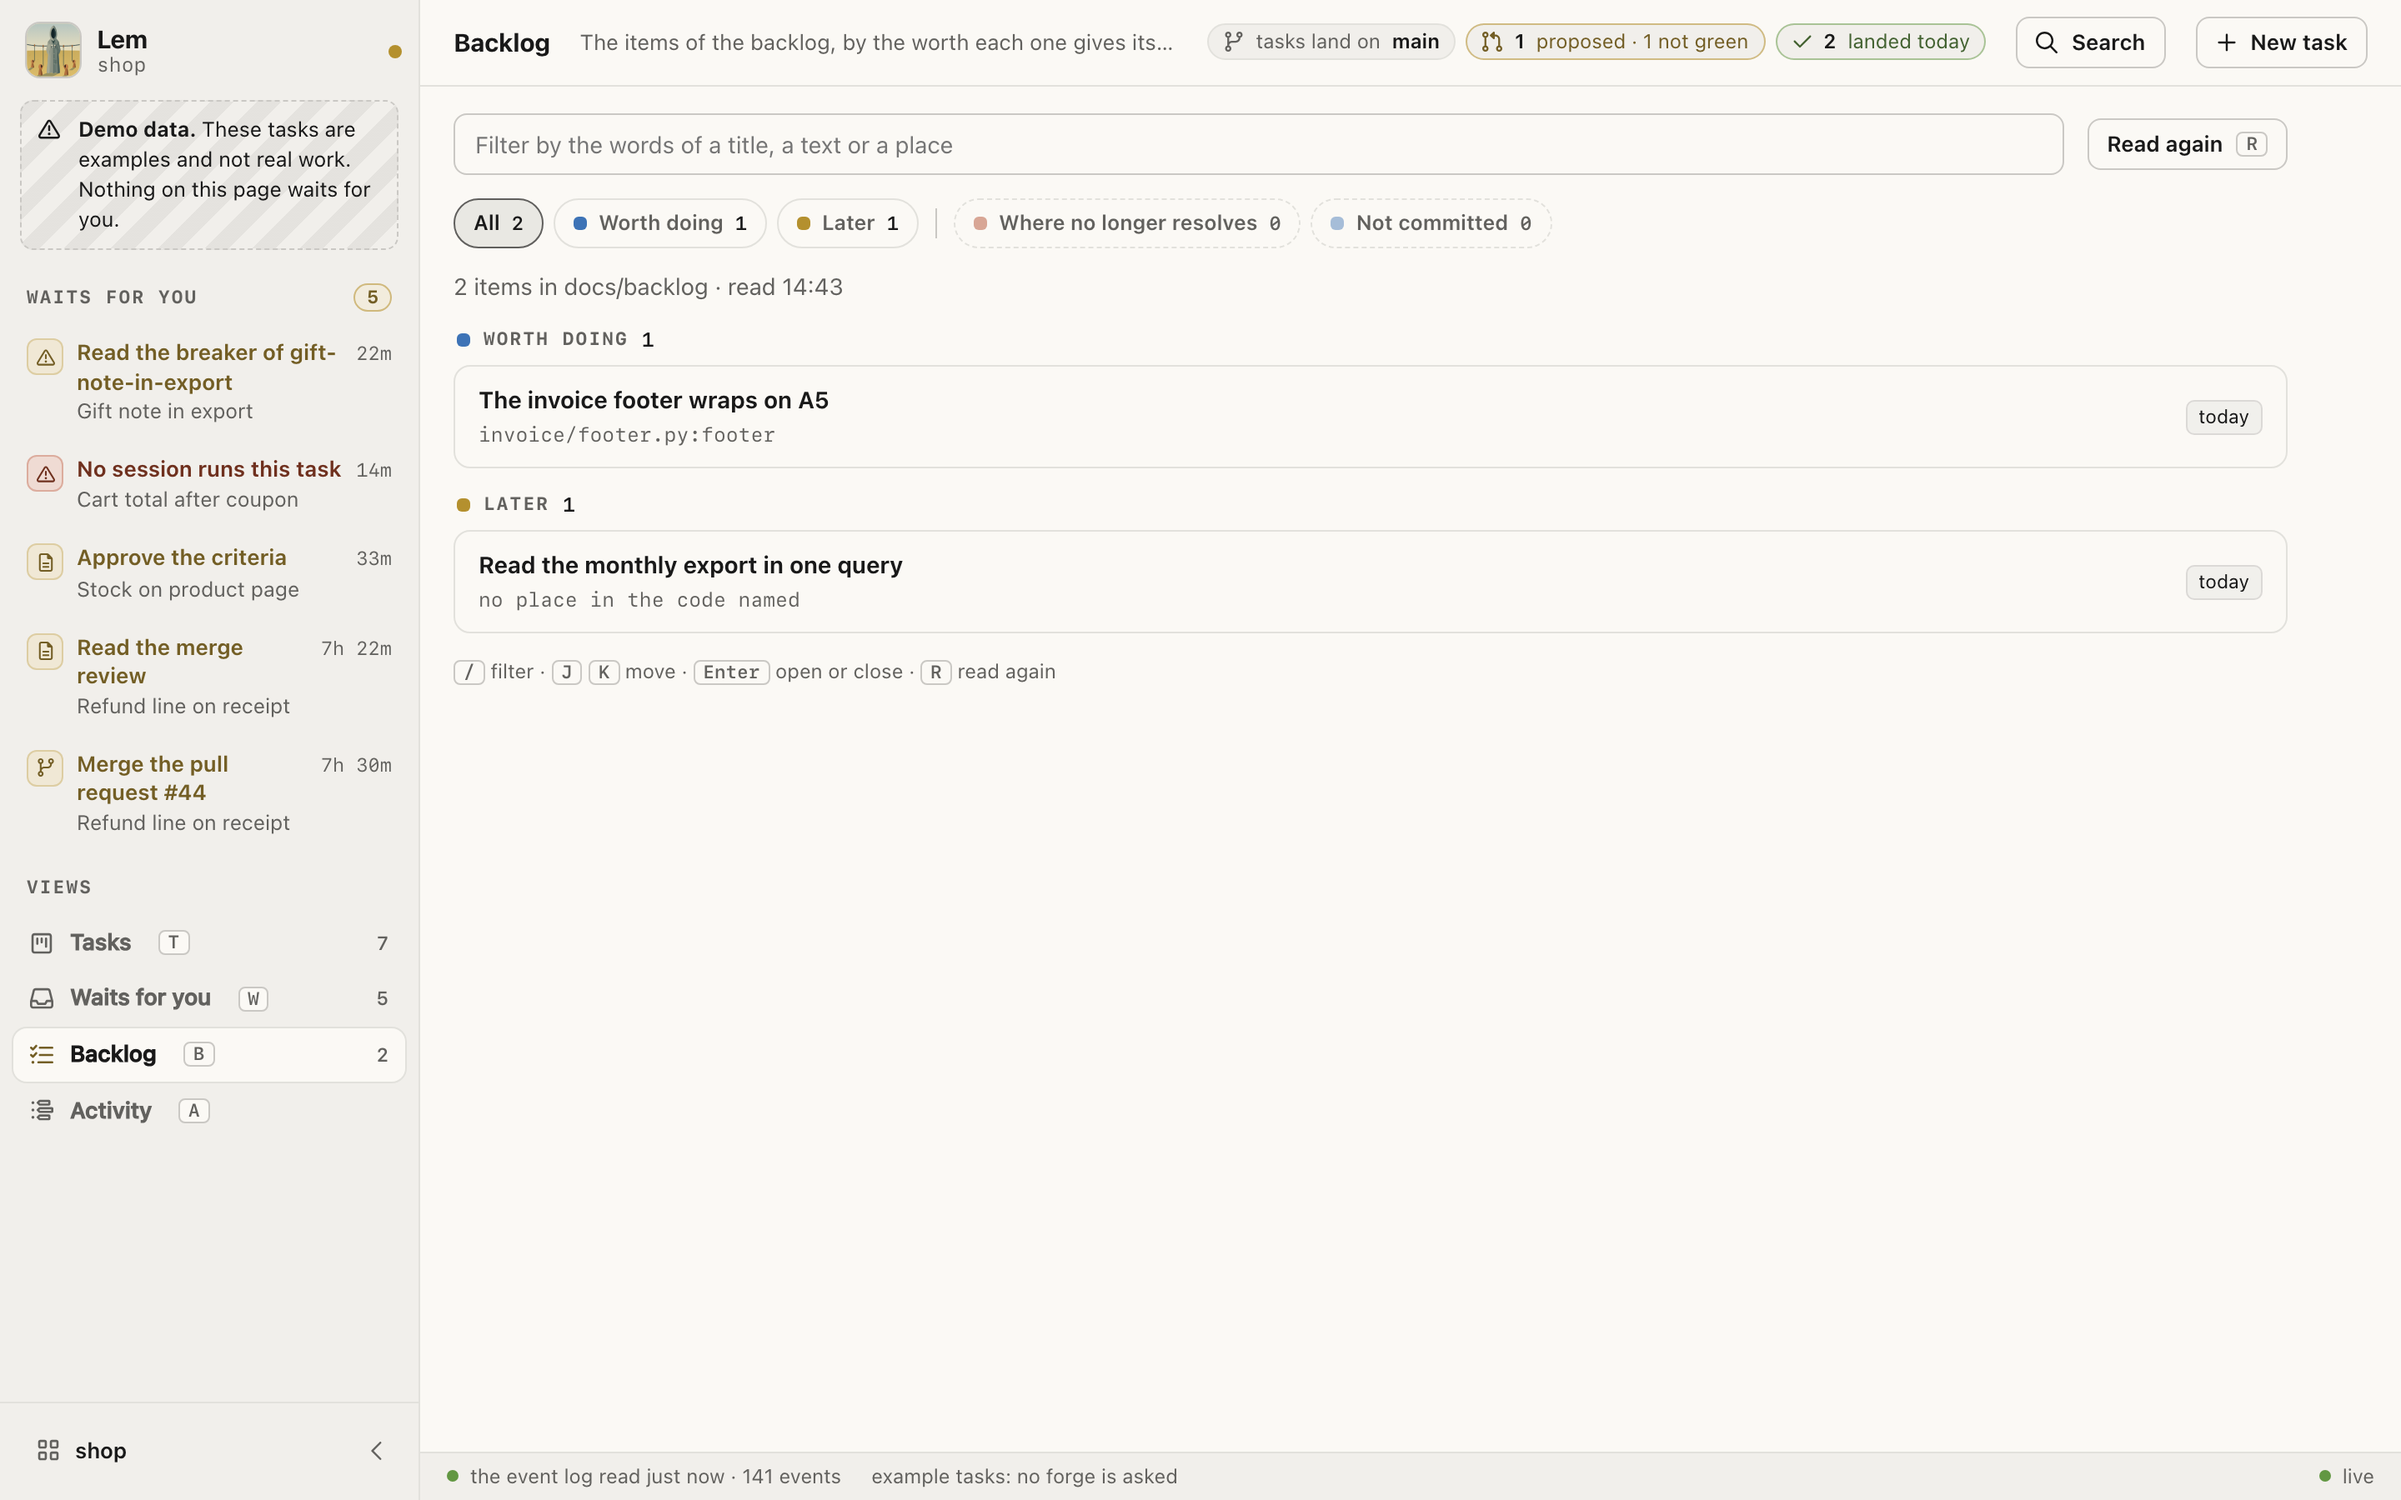
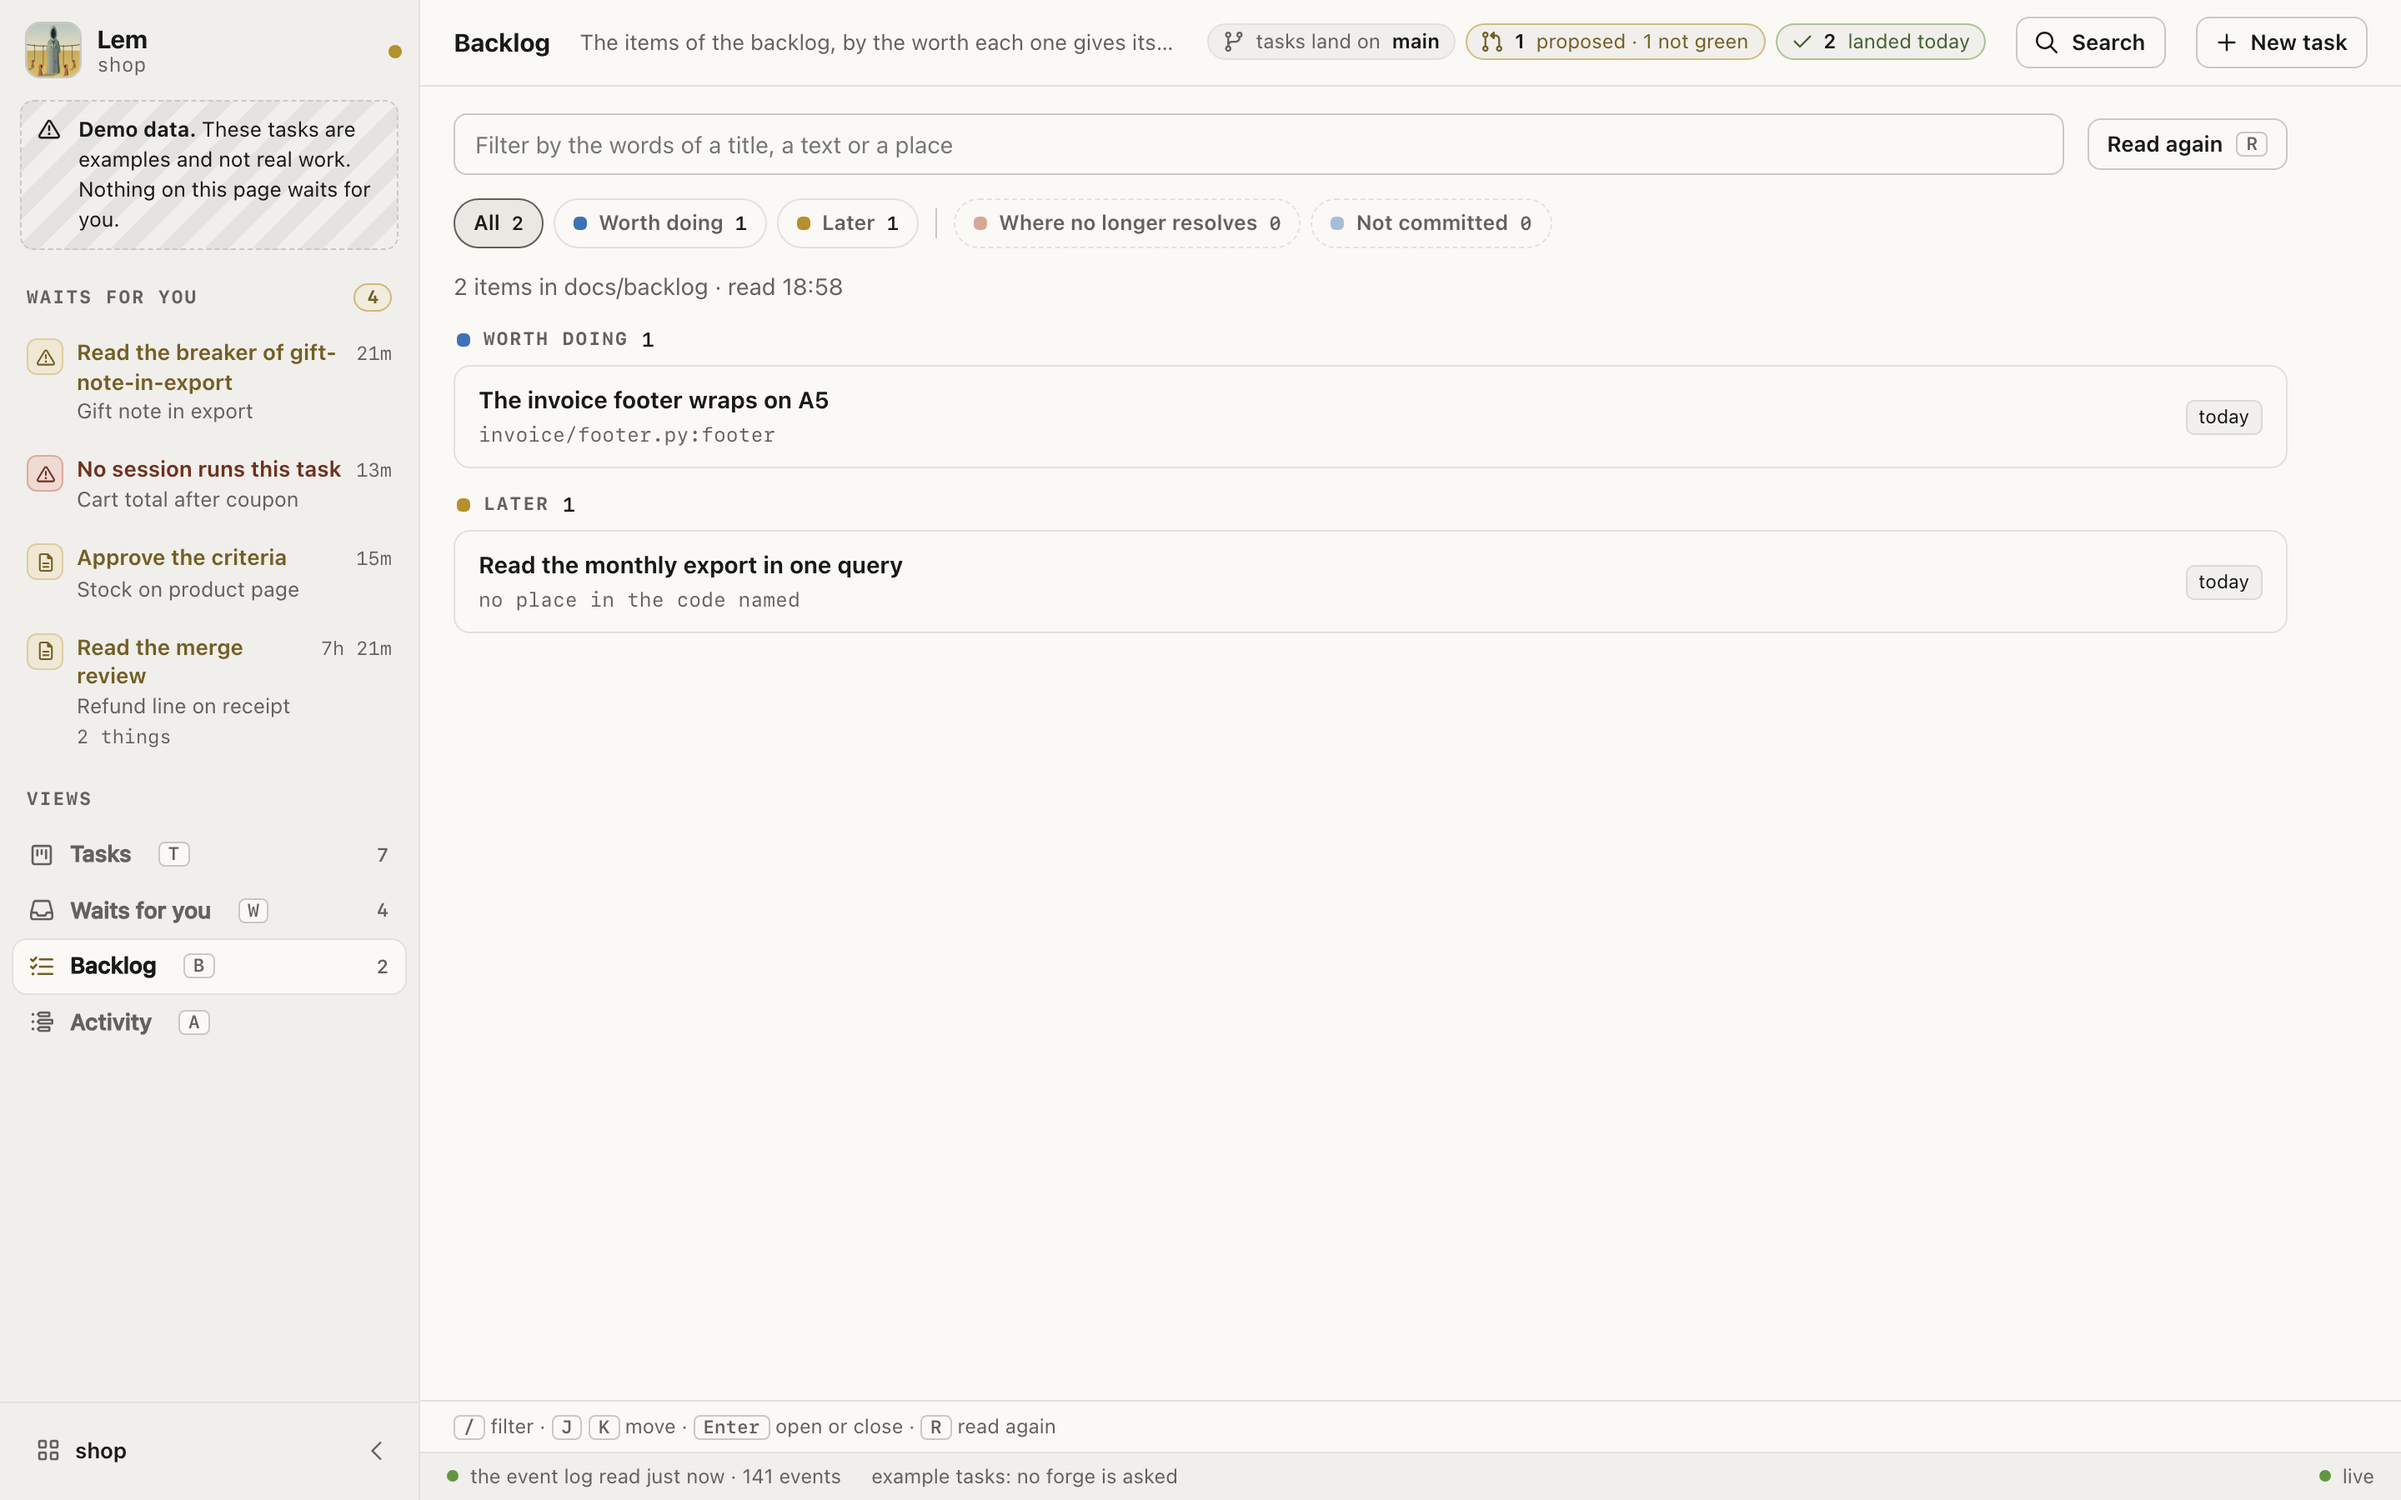
docs(board): the guides, the page and the pictures say one stack for each task in Waits for you

diff --git a/site/index.html b/site/index.html
@@ -44,7 +44,7 @@
       <div class="frame desk">
         <picture>
           <source media="(prefers-color-scheme: dark)" srcset="assets/screens/board-dark.png">
-          <img src="assets/screens/board-light.png" alt="The board of all tasks: a sidebar with five things that wait for you, and four columns of task cards" width="1440" height="900">
+          <img src="assets/screens/board-light.png" alt="The board of all tasks: a sidebar with four tasks that wait for you, one of them with 2 things, and four columns of task cards" width="1440" height="900">
         </picture>
       </div>
       <div class="frame hand">
@@ -64,7 +64,7 @@
   <p class="intro">The board puts each task in a column by who acts next, and it updates by itself. The same board opens in agterm, in a browser and on your phone.</p>
   <ul class="views">
     <li class="v-tasks"><b>Tasks</b> <span>Each task in the column of who acts next: you, a builder, the checks, or done.</span></li>
-    <li class="v-you"><b>Waits for you</b> <span>One row for each thing that you do, for example: read a breaker, approve the criteria, read a merge review, merge.</span></li>
+    <li class="v-you"><b>Waits for you</b> <span>One row for each task, with what you do: read a breaker, approve the criteria, read a merge review or merge. A task with two or more things is one stack, which opens on a click.</span></li>
     <li class="v-backlog"><b>Backlog</b> <span>The work for later, in groups by its worth. The proposals of the morning's retro that a reviewer agent passed come first, for you to start or drop.</span></li>
     <li class="v-activity"><b>Activity</b> <span>Where the time went, and every event.</span></li>
   </ul>

diff --git a/docs/when-lem-needs-you.md b/docs/when-lem-needs-you.md
@@ -53,12 +53,15 @@ start a new task.
 
 A fresh merge agent reads each pull request, writes `merge-review.md`, and merges a green one that
 is not careful. It calls you for every other one, and when it finds a problem. With
-`branch.land = "owner"`, it calls you for each one. Then "Waits for you" shows "Read the merge
-review". [The pull request](pull-request.md) tells more.
+`branch.land = "owner"`, it calls you for each one. Then "Waits for you" shows one stack for the
+task, with "Read the merge review" and "2 things": the review, and the merge of the pull request.
+[The pull request](pull-request.md) tells more.
 
 ## What waits for you
 
-Type `/lem`. Lem opens the board, and gives one list in this order:
+Type `/lem`. Lem opens the board, and gives one list. Each task that waits for you is one entry,
+with the things that you do for it under it. A task has the place of its first thing, in this
+order:
 
 1. the breakers, each task that needs a session and has none, and each task whose session
    stopped: "Open a session" starts a fresh agent;
@@ -77,15 +80,18 @@ criteria, or the personas read them, it is not there. While the session of a tas
 answer, the task is not on the list either. It comes back when the session stops and waits for you
 again. When Lem cannot read the session, the task stays on the list.
 
-The time on a row starts with the step that started its wait. For example, the acceptance criteria
-count from the time that they wait for your yes, not from the start of the interview.
+The time of a thing starts with the step that started its wait. For example, the acceptance
+criteria count from the time that they wait for your yes, not from the start of the interview.
 
 What the night and the retro propose is not on the list. A reviewer agent reads each proposal
 first, and you see only the proposals that pass, as items of the board's
 [**Backlog**](board.md#the-reviewers-items) view.
 
-The [board](board.md) shows the same rows, in the same order, in its view **Waits for you**. When
-Lem cannot read the sessions of agterm, the list says so.
+The [board](board.md) shows the same list, in the same order, in its view **Waits for you**. A
+task with one thing is one row. A task with two or more things is one stack: its title, its first
+thing, and the number of its things. Click the stack to open it. Each thing then shows as a row of
+its own, with its time and its button. The counts of the board count each task one time. When Lem
+cannot read the sessions of agterm, the list says so.
 
 <p align="center">
   <picture>

diff --git a/docs/board.md b/docs/board.md
@@ -17,7 +17,7 @@ The first page lists the repositories that use Lem, each with what waits for you
 | View | Key | It answers |
 | --- | --- | --- |
 | **Tasks** | `T` | Who acts next? One column for each actor. |
-| **Waits for you** | `W` | What must I do? The rows of [what waits for you](when-lem-needs-you.md#what-waits-for-you). |
+| **Waits for you** | `W` | What must I do? [What waits for you](when-lem-needs-you.md#what-waits-for-you): one row for each task, and one stack for a task with two or more things. |
 | **Backlog** | `B` | What waits for later? The [reviewer's items](#the-reviewers-items), then the backlog in groups by worth. |
 | **Activity** | `A` | Where did the time go? A chart of each task, and every event. |
 
@@ -26,7 +26,7 @@ any task or backlog item by its title.
 
 On **Tasks**, `J`, `K`, `↑` and `↓` move a mark in a column, and `H`, `L`, `←` and `→` to the next
 column. On **Waits for you**, `J`, `K`, `↑` and `↓` move it. `Enter` opens the marked task, or the
-session in agterm where you answer its row.
+session in agterm where you answer its row. On a marked stack, `Enter` opens or closes the stack.
 
 A task opens in a panel, or as a page on a phone. The keys `1` to `5` open its tabs, and `Escape`
 closes the panel:

diff --git a/docs/pull-request.md b/docs/pull-request.md
@@ -58,8 +58,9 @@ flowchart TD
     W --> Y["You read the review, then merge or ask for a change"]
 ```
 
-When the merge agent calls you, the board shows "Read the merge review" in "Waits for you", and
-the review is the first card of the task.
+When the merge agent calls you, "Waits for you" on the board shows one stack for the task:
+"Read the merge review" and "2 things". Open the stack, and the review and the merge are its two
+rows. The review is also the first card of the task.
 
 After the verdict merge, the board server merges the pull request. Until then the task stays in
 the column "Checks and review", with no row in "Waits for you" and no notification.
